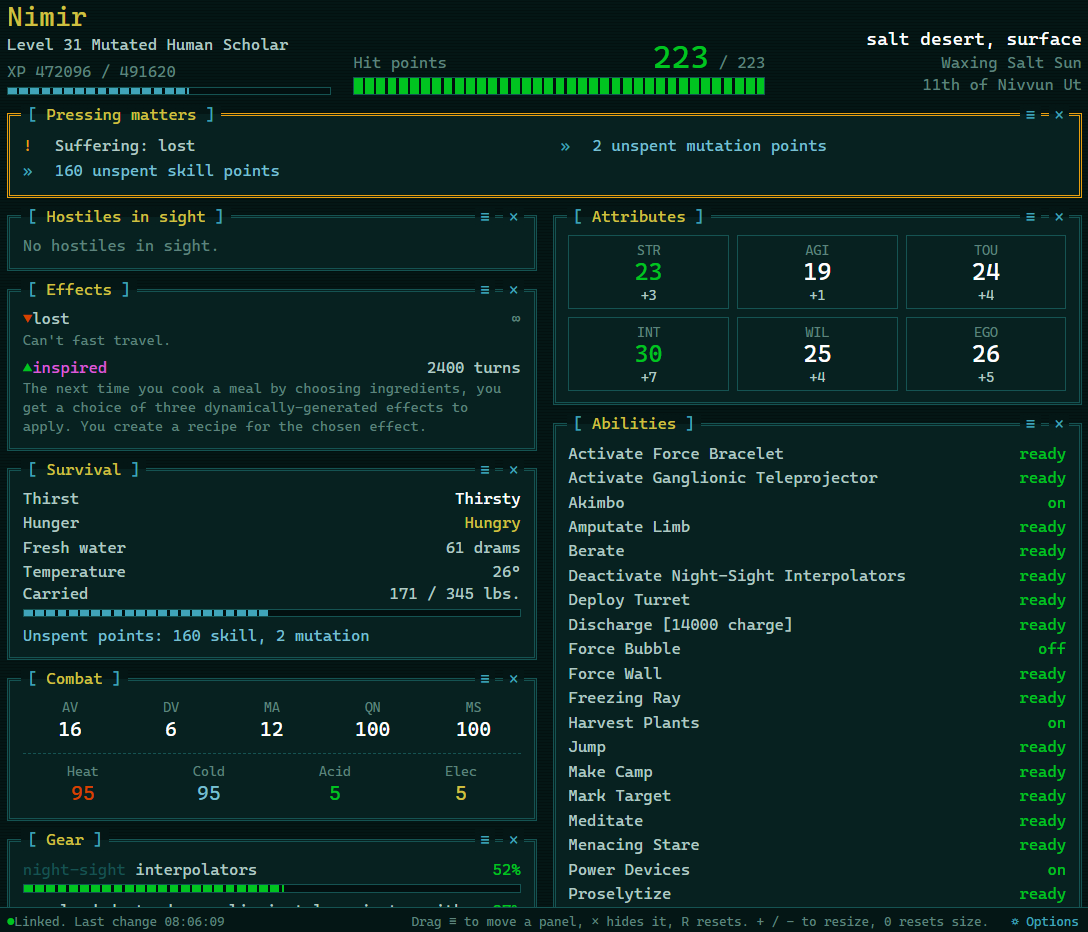
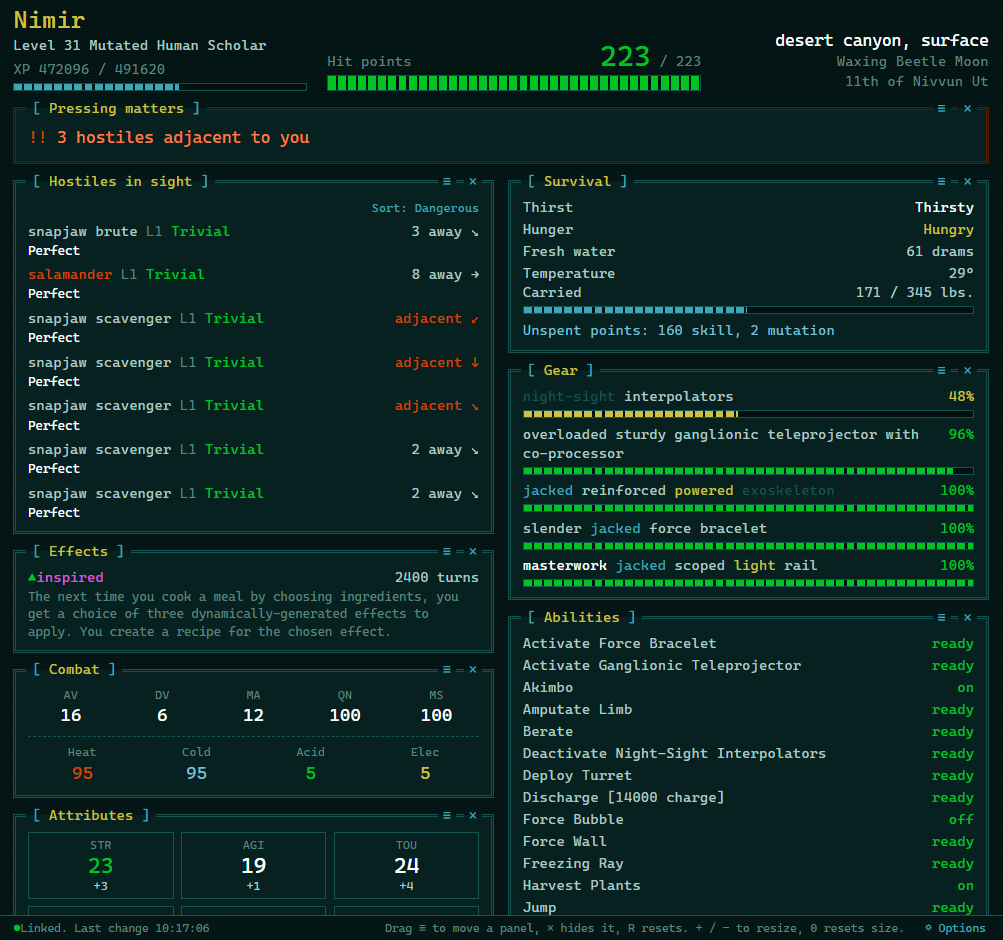
Update the preview screenshot and tidy the 1.0.7 notes
The screenshot shows the current panel, including the sort toggle and the
hostile effects. Used by the README, the mod manifest and the Workshop item.

Changelog entries reordered so the release notes lead with the change that
matters most rather than the order I happened to write them in.

Changed region(s): [[0.0, 0.0, 1.0, 0.9957], [0.7109, 0.9646, 0.8963, 0.9957]]

diff --git a/CHANGELOG.md b/CHANGELOG.md
@@ -1,12 +1,12 @@
 # Changelog
 
 ## 1.0.7
-- Added: Hostiles in sight has a Sort toggle, switching between nearest first and most dangerous first. Your choice is remembered. Sorting by danger weighs the game's difficulty rating first, then how big the creature is, then how close it is, since a high level character reads almost everything as Trivial and the rating alone stops telling you much.
+- Changed: the HUD no longer shows you anything your character cannot see. Hostiles read as Perfect, Fine, Injured, Wounded or Badly Wounded, using the game's own wound level and colour, and an exact hit point bar is only drawn when your character can actually read those numbers. The game decides that rather than this mod, so VISAGE once it has booted, the optical scanner implants and anything a mod adds all count, and a scanner that is switched off does not. Without one the numbers are not sent to the page at all.
+- Changed: when you can read a creature's exact hit points, the figures are shown beside the bar rather than the bar alone.
+- Added: Hostiles in sight lists what is wrong with each creature, bleeding and the like, in the same style and colours as your own Effects panel. The game's own rule for what shows when you look at a creature decides the list, so nothing appears that you could not see by looking.
+- Added: a Sort toggle on Hostiles in sight, switching between nearest first and most dangerous first. Your choice is remembered. Sorting by danger weighs the game's difficulty rating first, then how big the creature is, then how close it is, since a high level character reads almost everything as Trivial and the rating alone stops telling you much.
+- Changed: hostiles at the same distance are ordered by how dangerous they are, and those tied on both by which has the most hit points left.
 - Added: unspent point reminders in Pressing matters can be dismissed with the × beside them. A dismissal lasts until the number changes, so spending them clears it and earning more brings the reminder back. The totals stay in Survival either way.
-- Changed: hostiles at the same distance are now ordered by how dangerous they are, and hostiles tied on both by which has the most hit points left.
-- Added: Hostiles in sight now lists what is wrong with each creature, bleeding and the like, in the same style and colours as your own Effects panel. The game's own rule for what shows when you look at a creature decides the list, so nothing appears that you could not see by looking.
-- Changed: when you can read a creature's exact hit points, the figures are now shown next to the bar rather than the bar alone.
-- Changed: Hostiles in sight now shows a creature's health as the game does, using the game's own wound level and colour, and only draws an exact hit point bar when your character can actually read those numbers. Whether they can is decided by the game rather than by this mod, so VISAGE once it has booted, the optical scanner implants and anything a mod adds all count, and a scanner that is switched off does not. Without one, the numbers are not sent to the page at all.
 
 ## 1.0.6
 - Added: panels can be hidden, not just moved. The new × on a panel hides it, and Options lists every panel so you can bring it back. R still restores the default layout and unhides everything.
